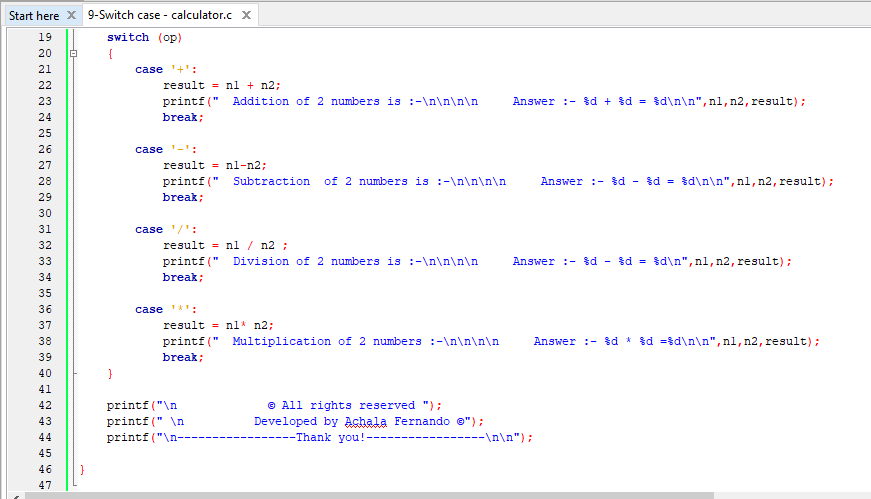
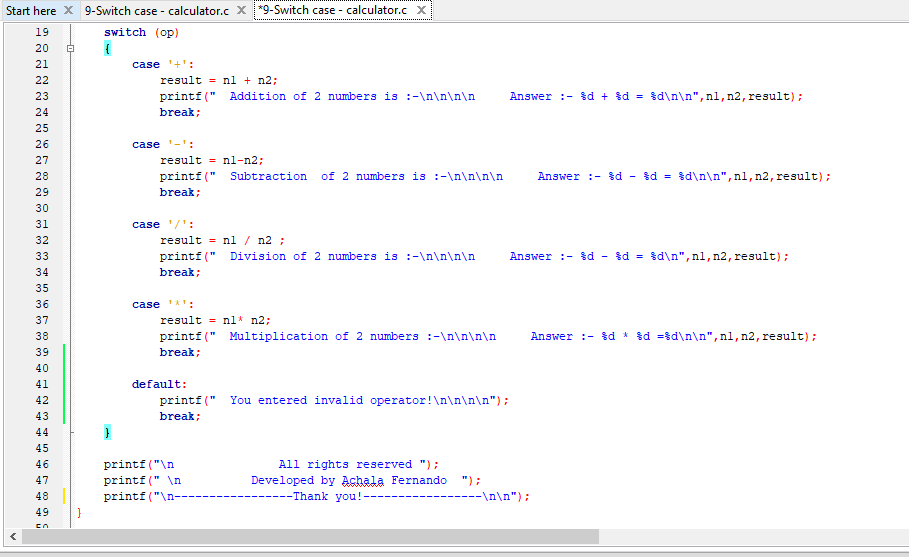
second commit
Add default case & outputs

diff --git a/Switch case - calculator/9-Switch case - calculator.c b/Switch case - calculator/9-Switch case - calculator.c
@@ -37,6 +37,10 @@ void main(){
             result = n1* n2;
             printf("  Multiplication of 2 numbers :-\n\n\n\n     Answer :- %d * %d =%d\n\n",n1,n2,result);
             break;
+
+        default:
+            printf("  You entered invalid operator!\n\n\n\n");
+            break;
     }
 
     printf("\n               All rights reserved ");
